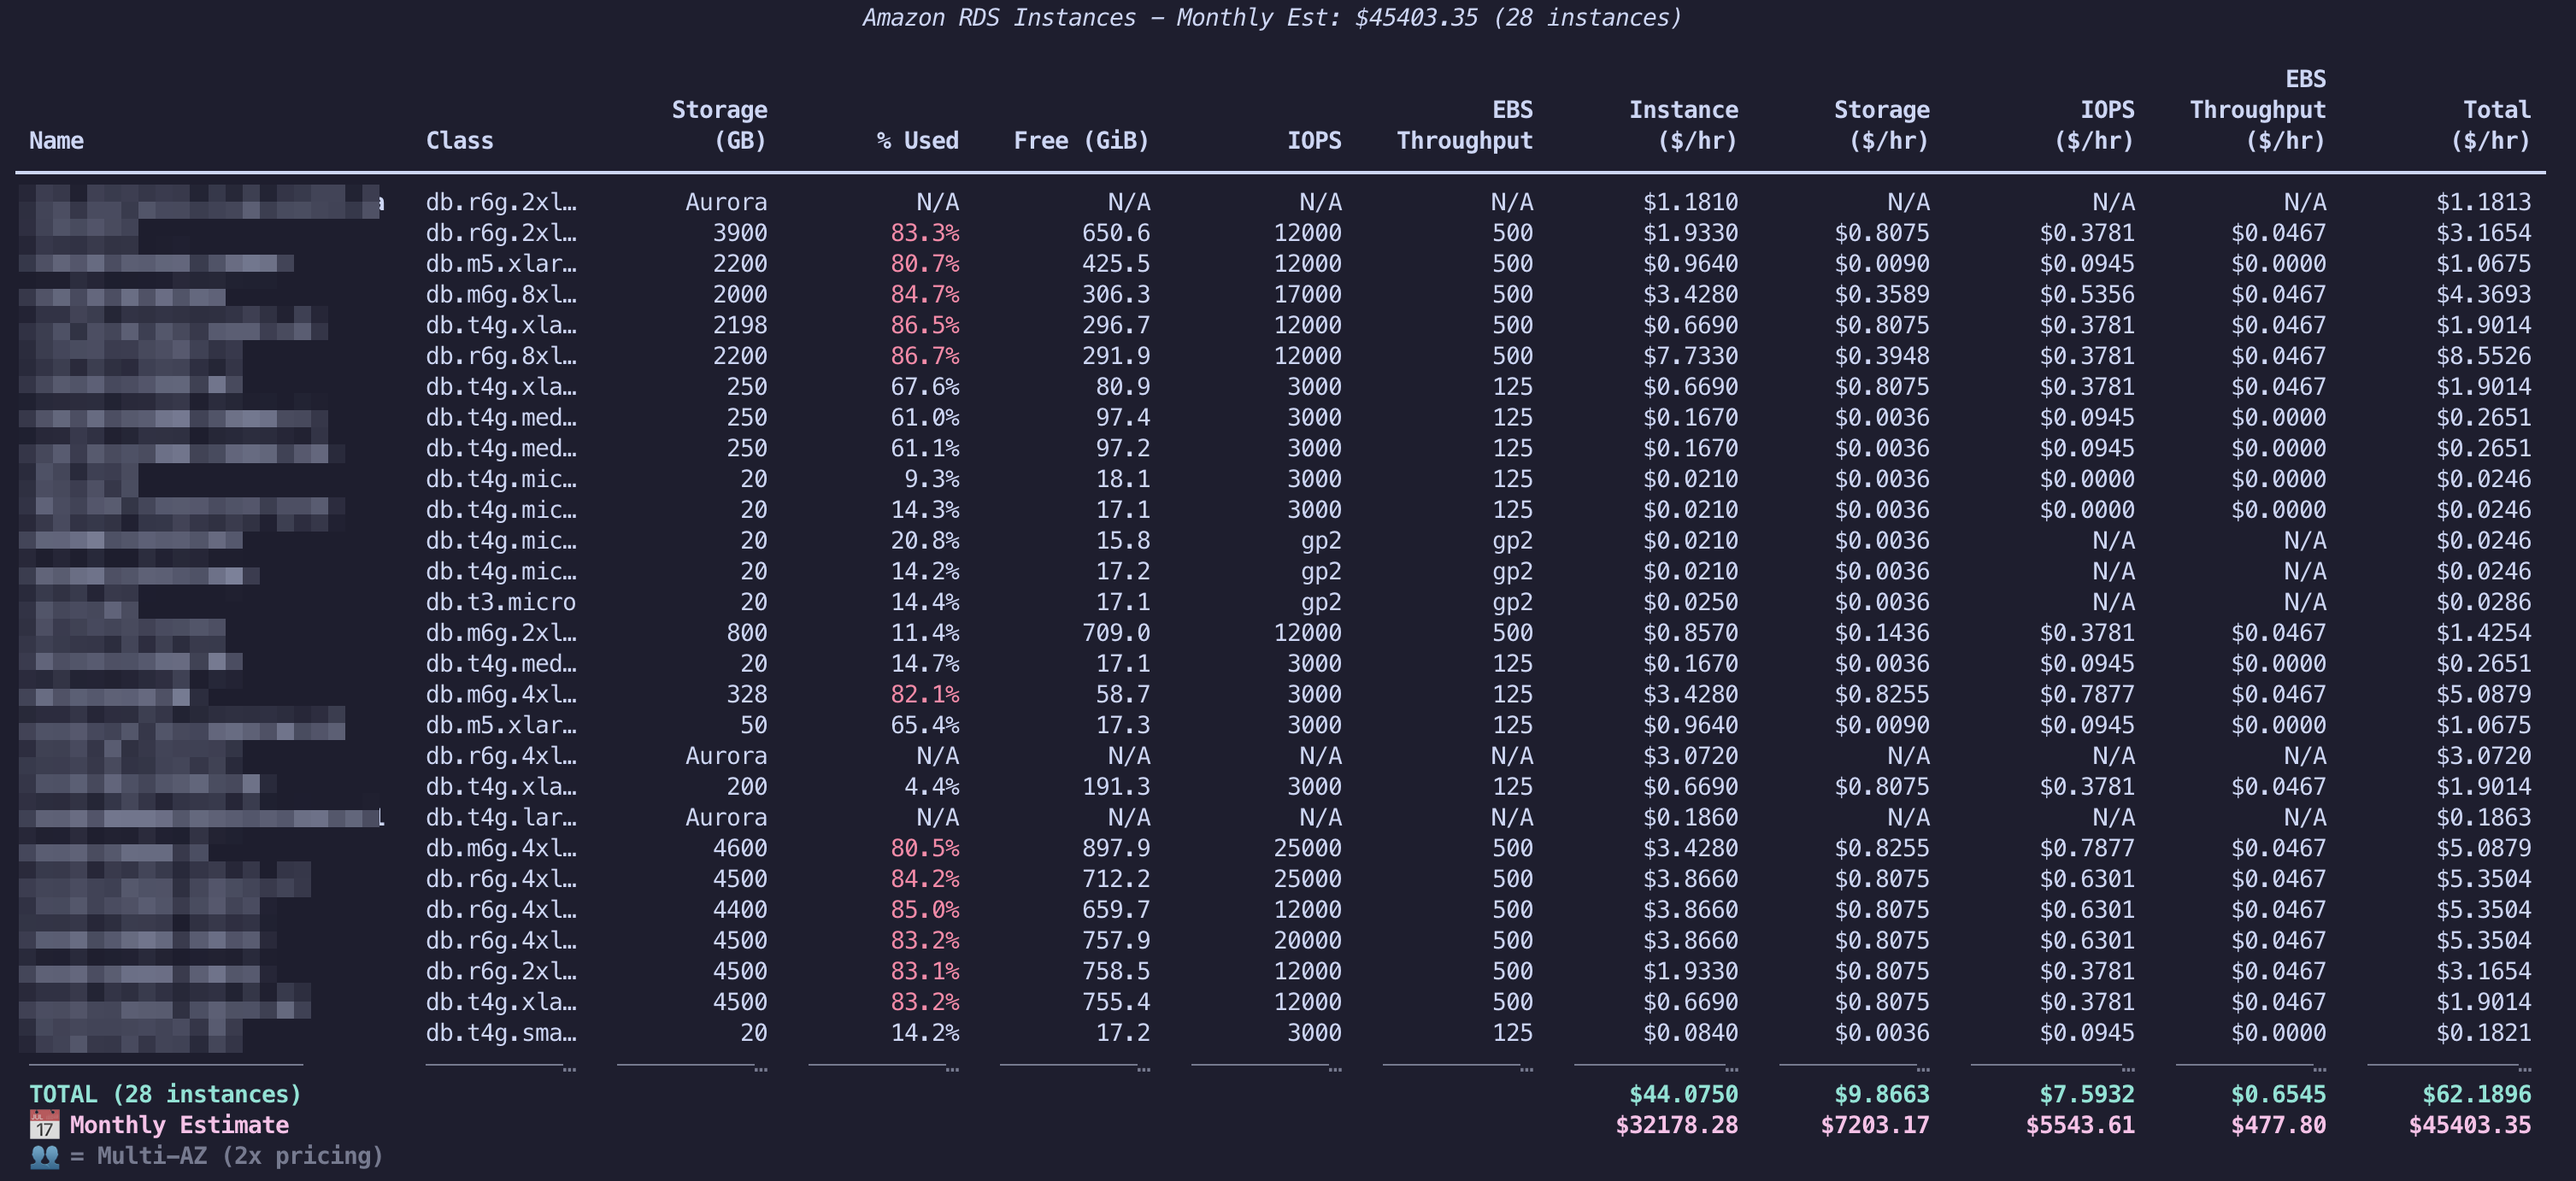
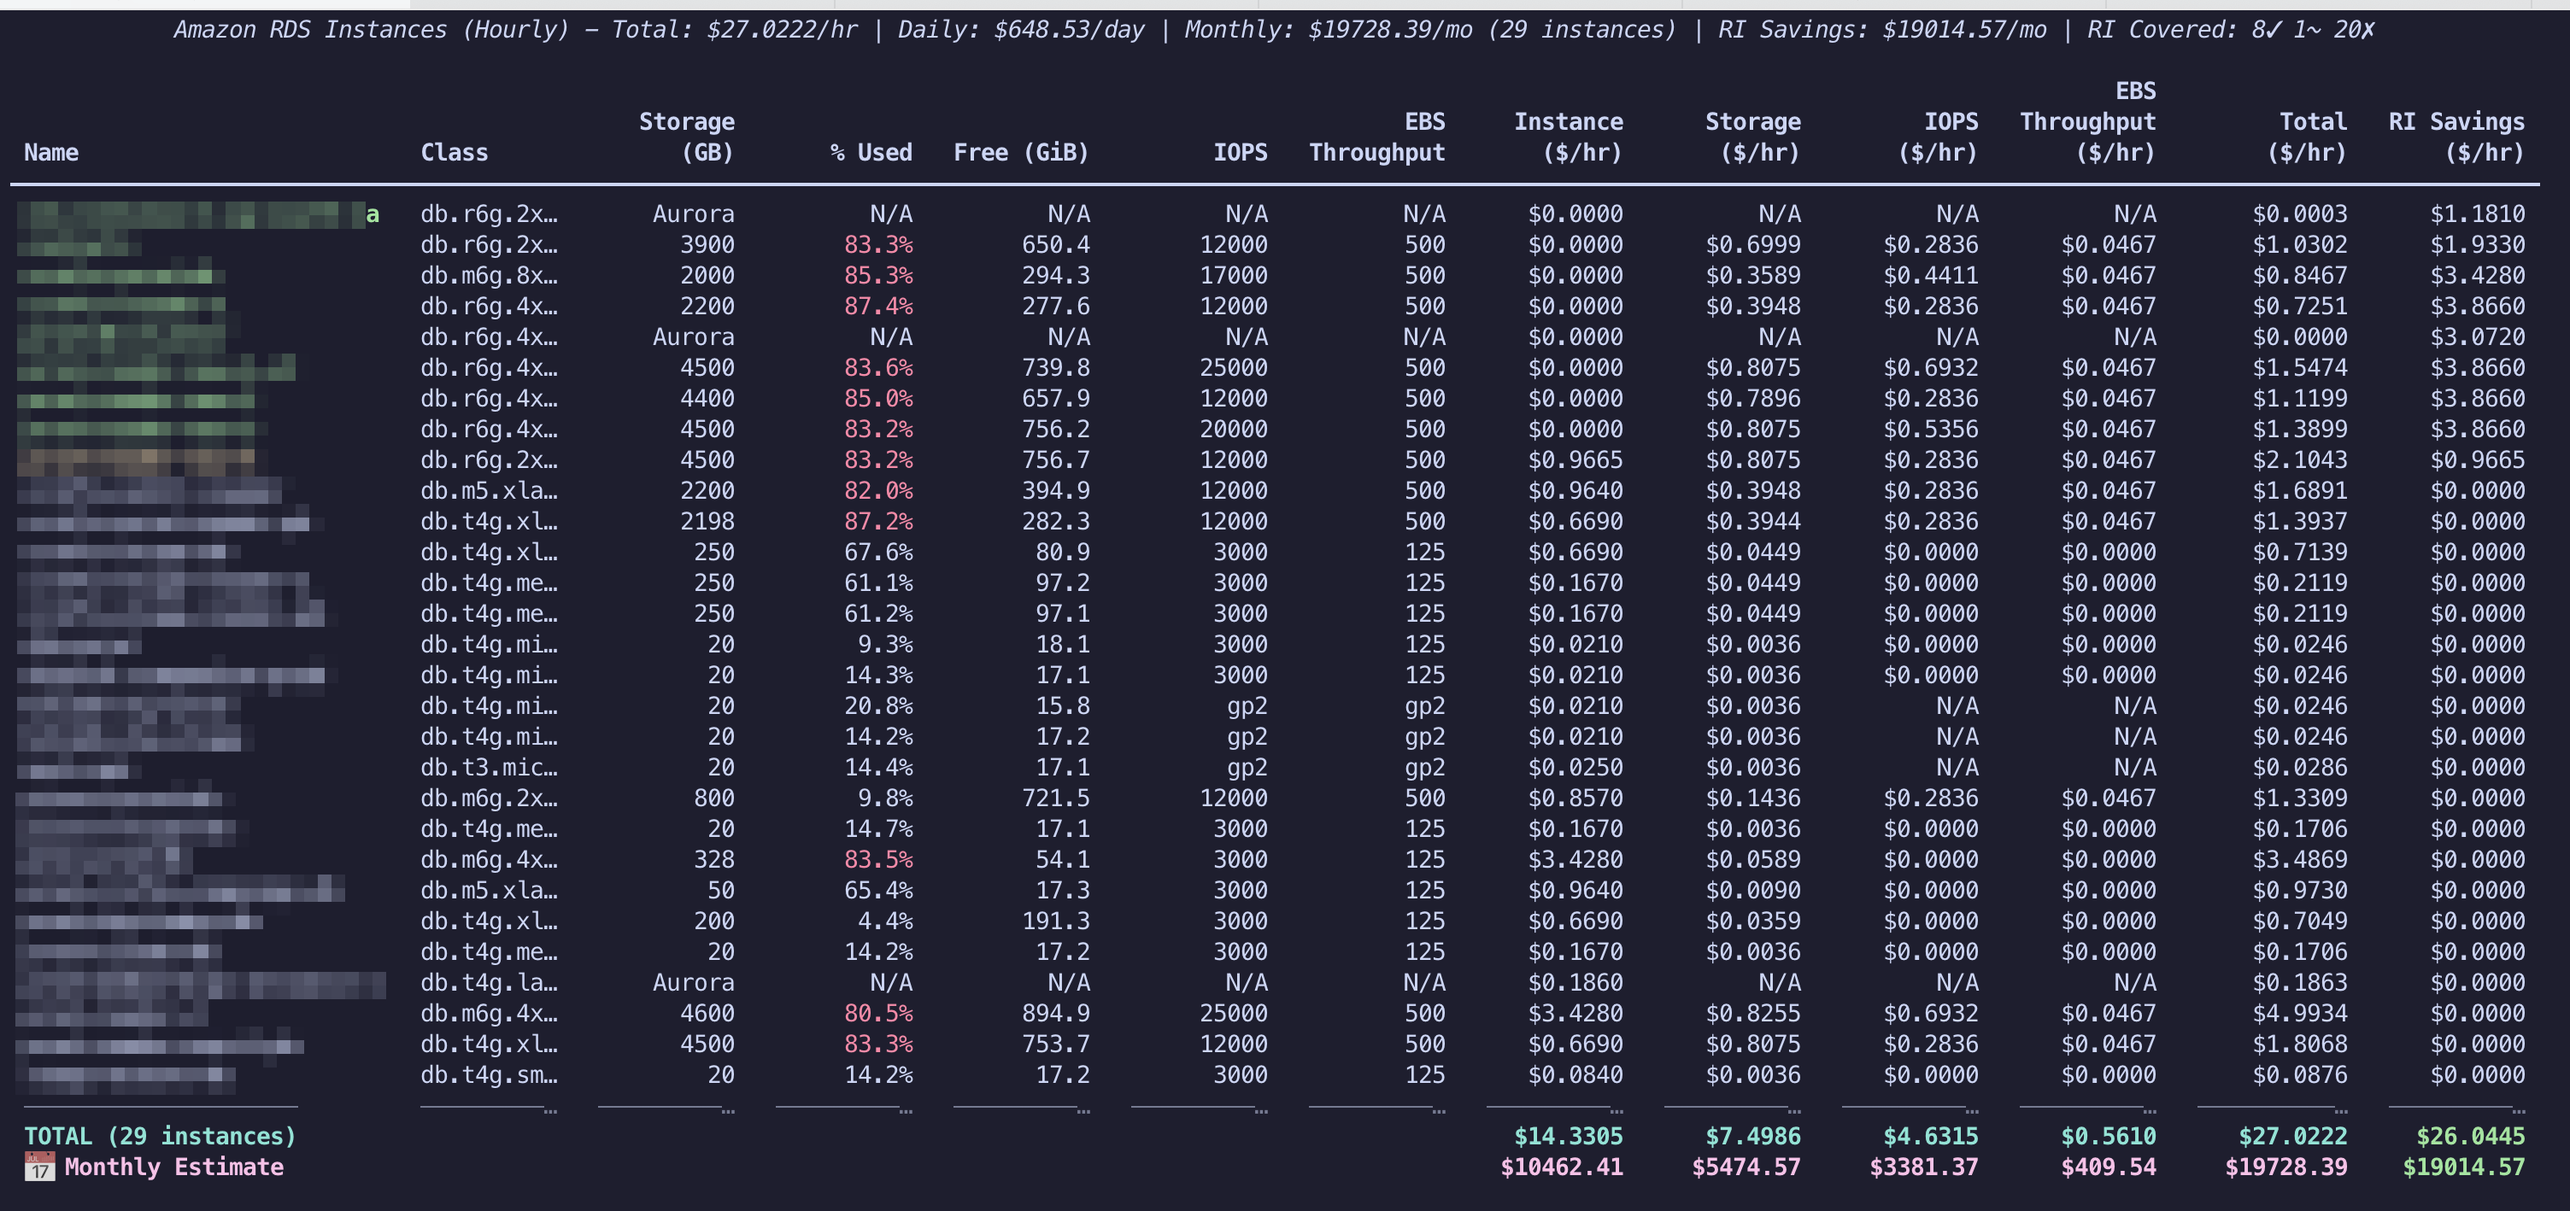
updated readme images

Changed region(s): [[0.0, 0.0622, 1.0, 0.9957], [0.0, 0.0, 1.0, 0.0311]]

diff --git a/README.md b/README.md
@@ -8,6 +8,9 @@ A powerful, full-screen terminal CLI that fetches and displays all your Amazon R
 
 ![Smart RDS Viewer Demo - Help Menu](docs/image-help.png)
 
+![Smart RDS Viewer Demo - RI Utilization](docs/image-ri.png)
+
+
 ## ✨ Features
 
 ### 🔍 **Real-time Data Fetching**
